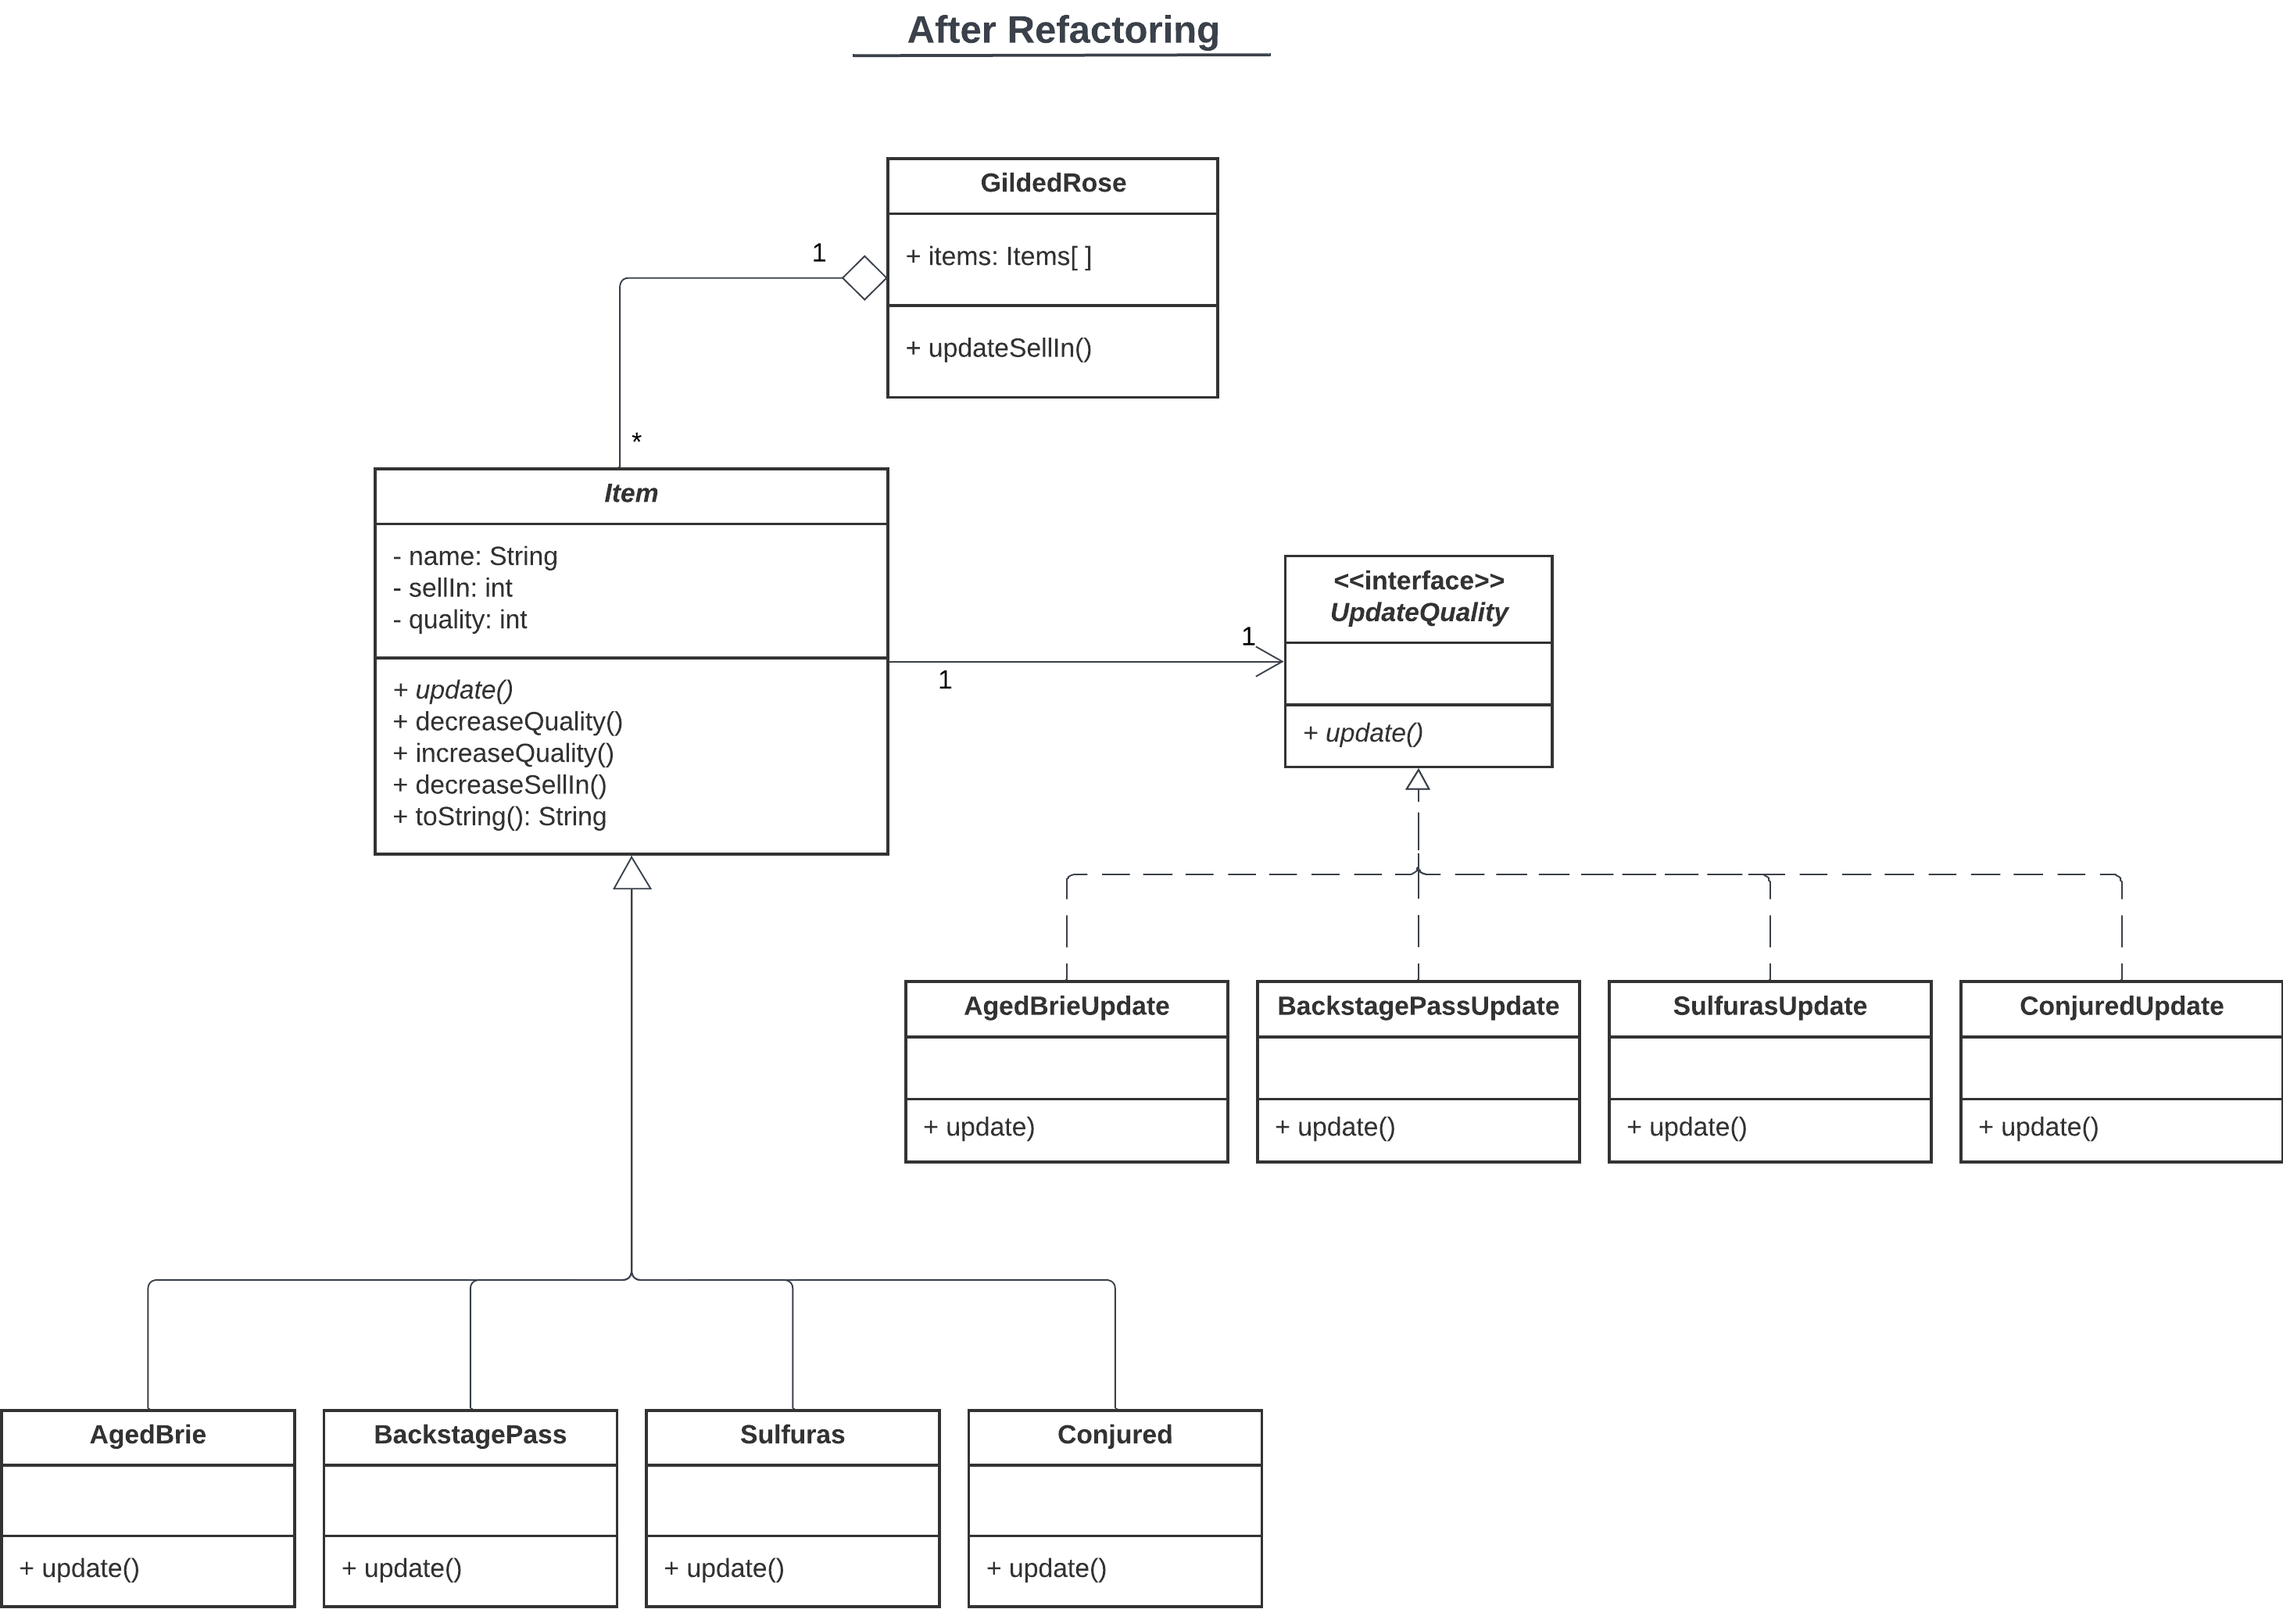
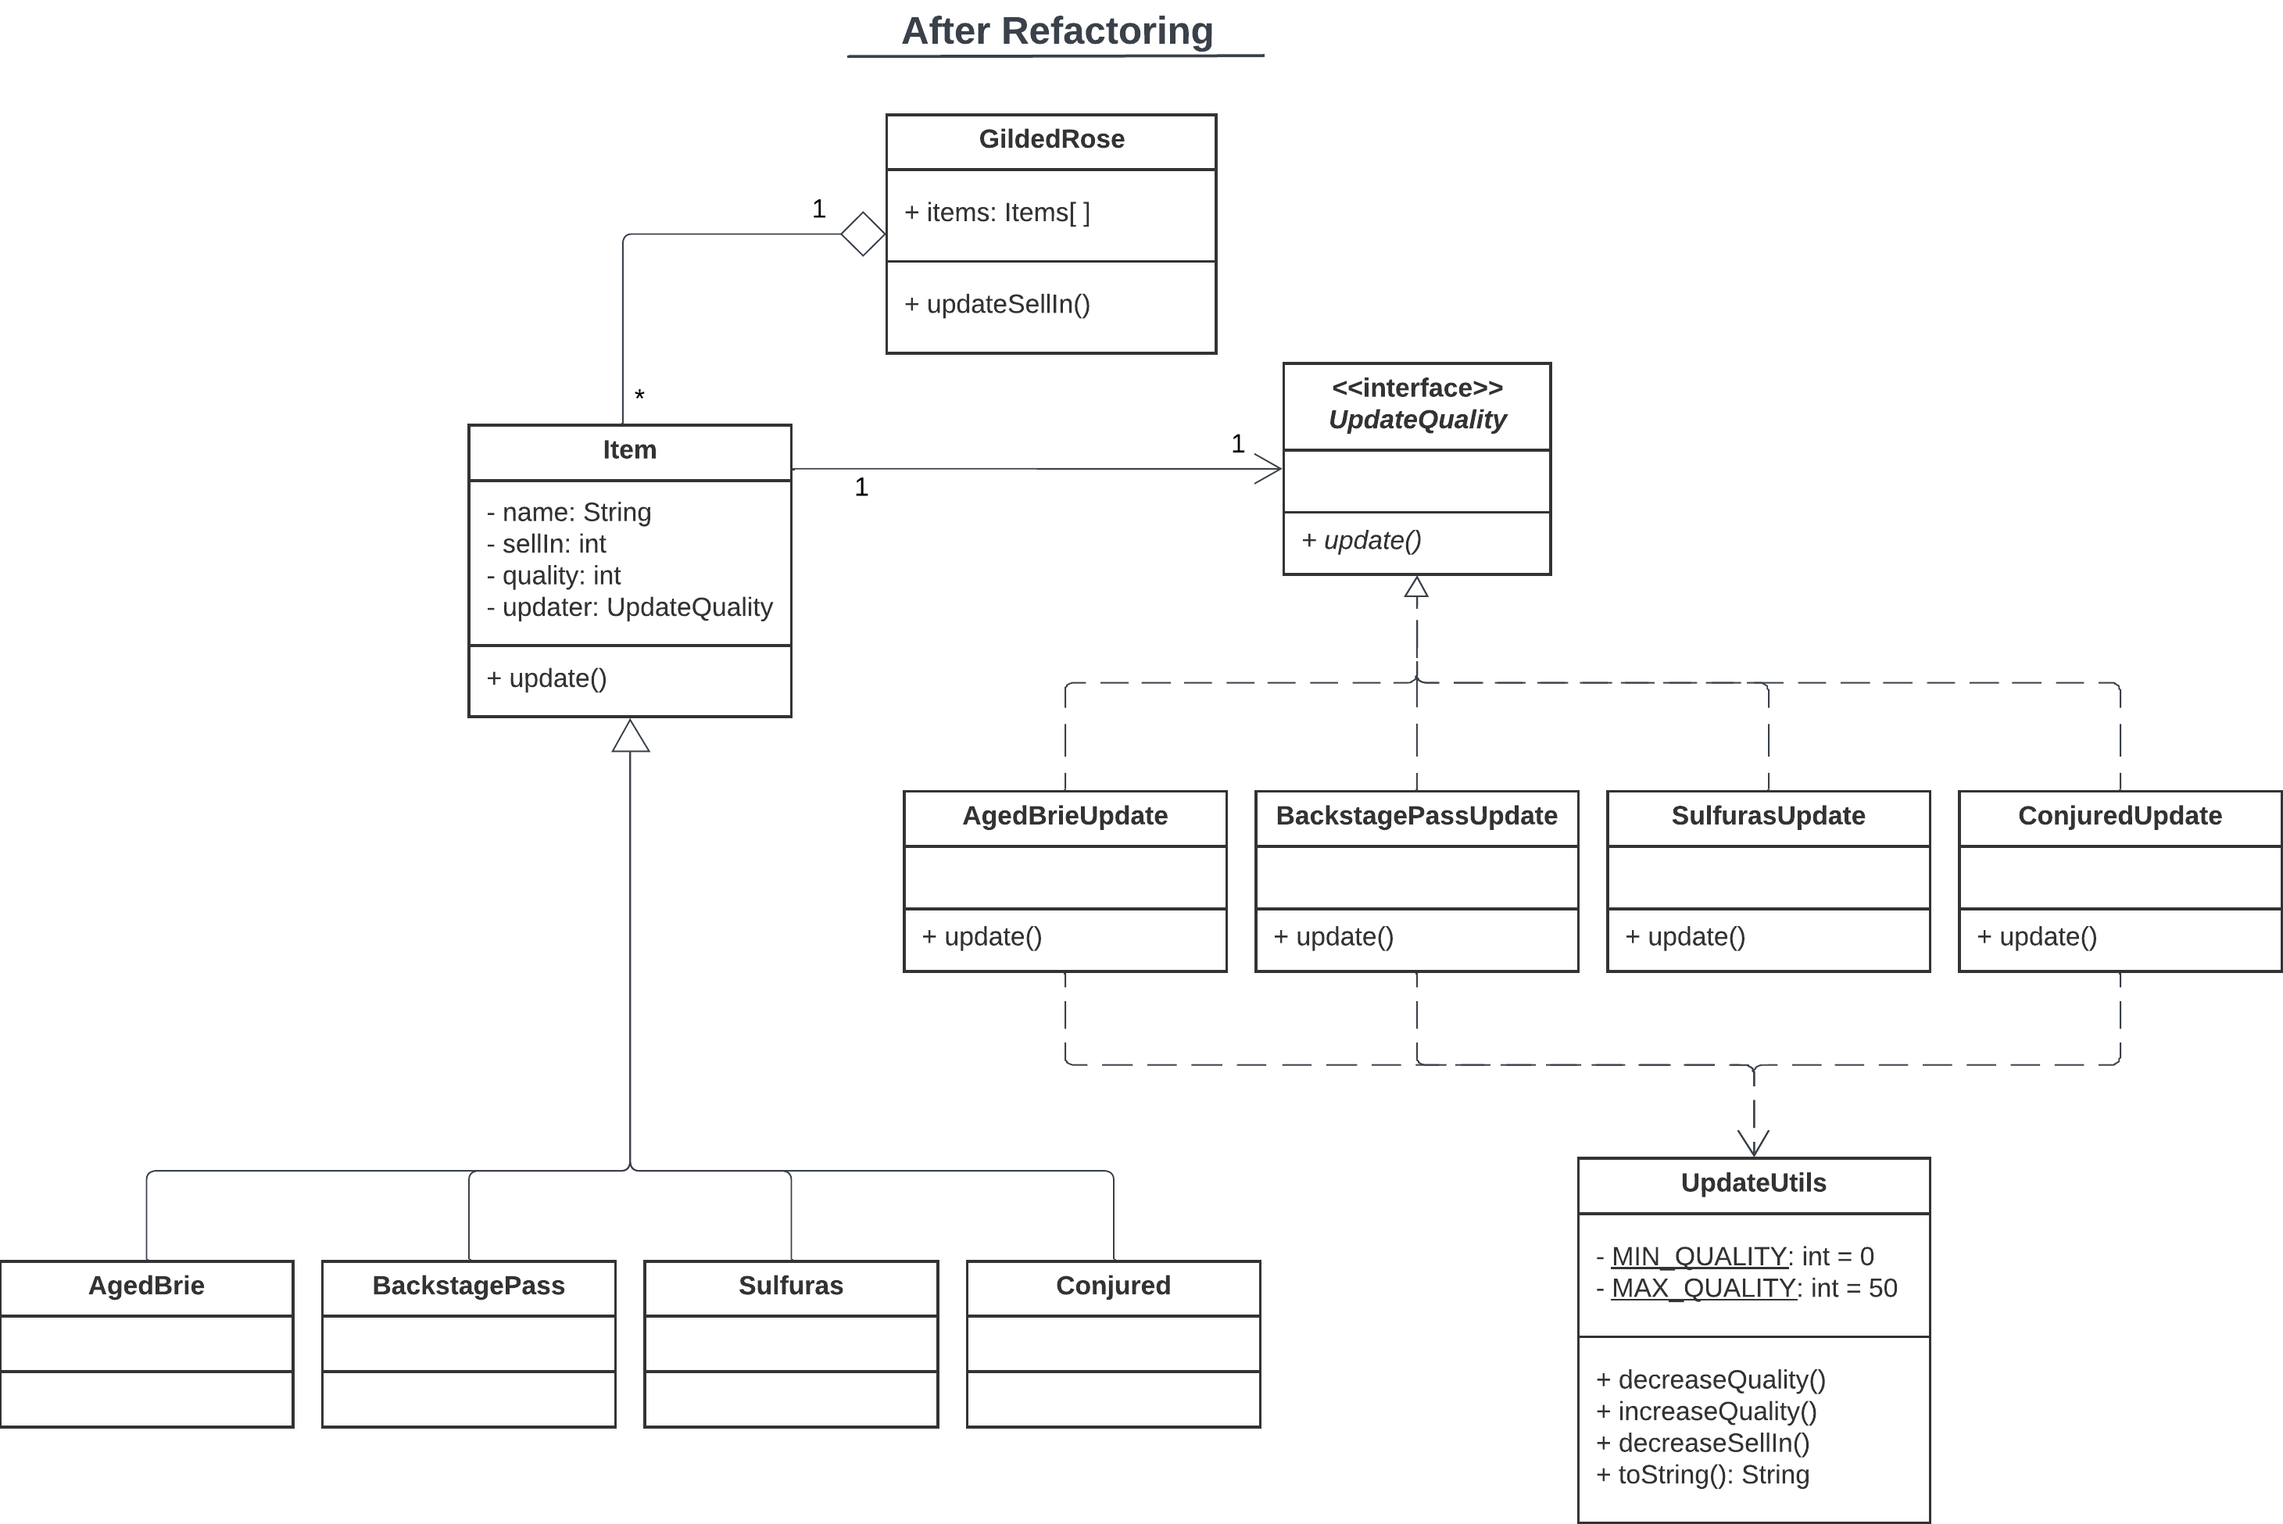
Update hw4

diff --git a/N96124454_HW4/Java/src/main/java/com/gildedrose/Item.java b/N96124454_HW4/Java/src/main/java/com/gildedrose/Item.java
@@ -1,7 +1,8 @@
-public abstract class Item {
+public class Item {
     protected String name;
     protected int sellIn;
     protected int quality;
+    protected UpdateQuality updater;
 
     public Item(String name, int sellIn, int quality) {
         this.name = name;
@@ -9,22 +10,8 @@ public abstract class Item {
         this.quality = quality;
     }
 
-    public abstract void update();
-
-    protected void decreaseSellIn() {
-        sellIn--;
-    }
-
-    protected void increaseQuality() {
-        if (quality < 50) {
-            quality++;
-        }
-    }
-
-    protected void decreaseQuality() {
-        if (quality > 0) {
-            quality--;
-        }
+    public void update() {
+        updater.update(this);
     }
 }
 
@@ -32,12 +19,7 @@ public class AgedBrie extends Item {
 
     public AgedBrie(int sellIn, int quality) {
         super("Aged Brie", sellIn, quality);
-    }
-
-    @Override
-    public void update() {
-        decreaseSellIn();
-        increaseQuality();
+        this.updater = new AgedBrieUpdate();
     }
 }
 
@@ -45,11 +27,7 @@ public class Sulfuras extends Item {
 
     public Sulfuras(int sellIn, int quality) {
         super("Sulfuras, Hand of Ragnaros", sellIn, quality);
-    }
-
-    @Override
-    public void update() {
-        // Sulfuras does not need to be updated
+        this.updater = new SulfurasUpdate();
     }
 }
 
@@ -57,21 +35,7 @@ public class BackstagePasses extends Item {
 
     public BackstagePasses(int sellIn, int quality) {
         super("Backstage passes to a TAFKAL80ETC concert", sellIn, quality);
-    }
-
-    @Override
-    public void update() {
-        decreaseSellIn();
-
-        if (sellIn < 0) {
-            quality = 0;
-        } else if (sellIn < 5) {
-            quality += 3;
-        } else if (sellIn < 10) {
-            quality += 2;
-        } else {
-            increaseQuality();
-        }
+        this.updater = new BackstagePassesUpdate();
     }
 }
 
@@ -79,16 +43,6 @@ public class ConjuredItem extends Item {
 
     public ConjuredItem(String name, int sellIn, int quality) {
         super(name, sellIn, quality);
-    }
-
-    @Override
-    public void update() {
-        decreaseSellIn();
-        decreaseQuality();
-        decreaseQuality();
-        if (sellIn < 0) {
-            decreaseQuality();
-            decreaseQuality();
-        }
+        this.updater = new ConjuredUpdate();
     }
 }

diff --git a/N96124454_HW4/Java/src/main/java/com/gildedrose/UpdateQuality.java b/N96124454_HW4/Java/src/main/java/com/gildedrose/UpdateQuality.java
@@ -1,0 +1,50 @@
+package com.gildedrose;
+
+public interface UpdateQuality {
+    void update(Item item);
+}
+
+public class AgedBrieUpdate implements UpdateQuality {
+    @Override 
+    public void update(Item item) {
+        decreaseSellIn(item);
+        increaseQuality(item);
+    } 
+}
+
+public class SulfurasUpdate implements UpdateQuality {
+    @Override
+    public void update(Item item) {
+        // Sulfuras does not need to be updated
+    }
+}
+
+public class BackstagePassesUpdate implements UpdateQuality {
+    @Override
+    public void update(Item item) {
+        decreaseSellIn(item);
+
+        if (item.sellIn < 0) {
+            item.quality = 0;
+        } else if (item.sellIn < 5) {
+            item.quality += 3;
+        } else if (item.sellIn < 10) {
+            item.quality += 2;
+        } else {
+            increaseQuality(item);
+        }
+    }
+}
+
+public class ConjuredUpdate implements UpdateQuality {
+    @Override
+    public void update(Item item){
+        decreaseSellIn(item);
+        decreaseQuality(item);
+        decreaseQuality(item);
+        if (item.sellIn < 0) {
+            decreaseQuality(item);
+            decreaseQuality(item);
+        }
+    }
+}

diff --git a/N96124454_HW4/Java/src/main/java/com/gildedrose/UpdateUtils.java b/N96124454_HW4/Java/src/main/java/com/gildedrose/UpdateUtils.java
@@ -1,0 +1,22 @@
+package com.gildedrose;
+
+public class UpdateUtils {
+    private static final int MAX_QUALITY = 50;
+    private static final int MIN_QUALITY = 0;
+
+    public void decreaseSellIn(Item item) {
+        item.sellIn--;
+    }
+
+    public void increaseQuality(Item item) {
+        if (item.quality < MAX_QUALITY) {
+            item.quality++;
+        }
+    }
+
+    public void decreaseQuality(Item item) {
+        if (item.quality > MIN_QUALITY) {
+            item.quality--;
+        }
+    }
+}

diff --git a/N96124454_HW4/Java/src/main/java/com/gildedrose/GildedRose.java b/N96124454_HW4/Java/src/main/java/com/gildedrose/GildedRose.java
@@ -1,6 +1,6 @@
 package com.gildedrose;
 
-class GildedRose {
+public class GildedRose {
     Item[] items;
 
     public GildedRose(Item[] items) {
